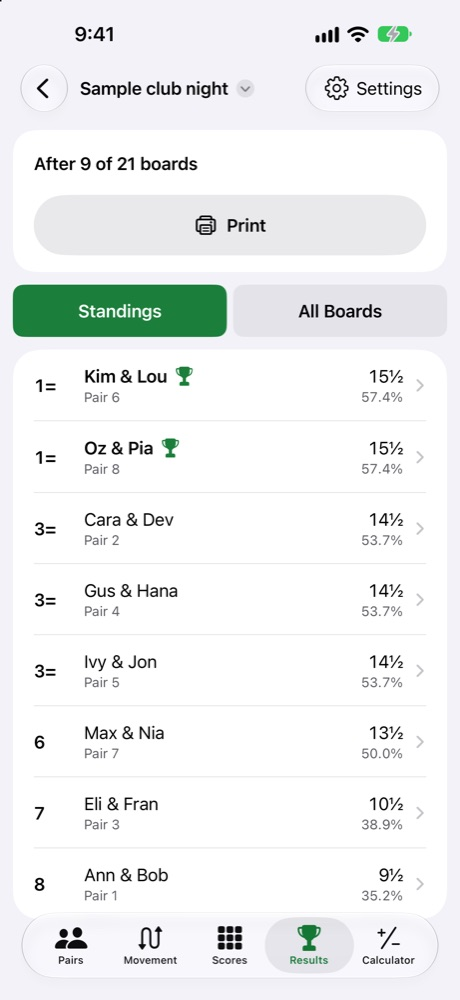
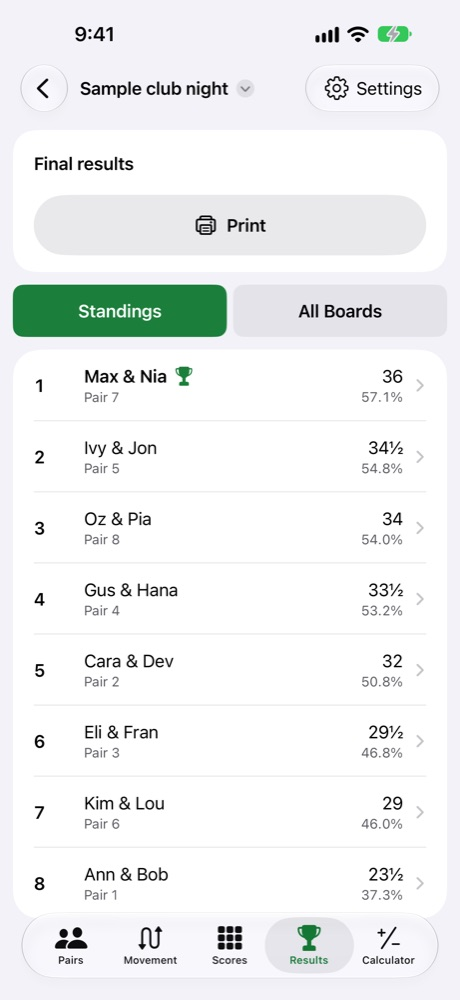
Home page: the winners at the end of the night, with a finished match's results (owner)

diff --git a/index.html b/index.html
@@ -4,7 +4,7 @@
 <meta charset="utf-8">
 <meta name="viewport" content="width=device-width, initial-scale=1">
 <title>Duplicate Bridge Scoring: score your home bridge game</title>
-<meta name="description" content="Score a duplicate bridge game at home: Howell and Mitchell movements for 4 to 36 pairs, table cards and travelers printed for tonight's game, results as you go. Easy to read, with big buttons and large text.">
+<meta name="description" content="Score a duplicate bridge game at home: Howell and Mitchell movements for 4 to 36 pairs, table cards and travelers printed for tonight's game, and the winners at the end of the night. Easy to read, with big buttons and large text.">
 <link rel="icon" href="images/icon.png">
 <link rel="stylesheet" href="style.css">
 <style>
@@ -83,8 +83,8 @@
     <figcaption>Enter the score, or the contract</figcaption>
   </figure>
   <figure>
-    <img src="images/iphone-results.jpg" width="460" height="1000" alt="iPhone: the results of a match, pairs in order with their percentages">
-    <figcaption>Results as you go</figcaption>
+    <img src="images/iphone-results.jpg" width="460" height="1000" alt="iPhone: the final results of a match, the winning pair first with a trophy, then every pair with its percentage">
+    <figcaption>The winners at the end of the night</figcaption>
   </figure>
 </div>
 
